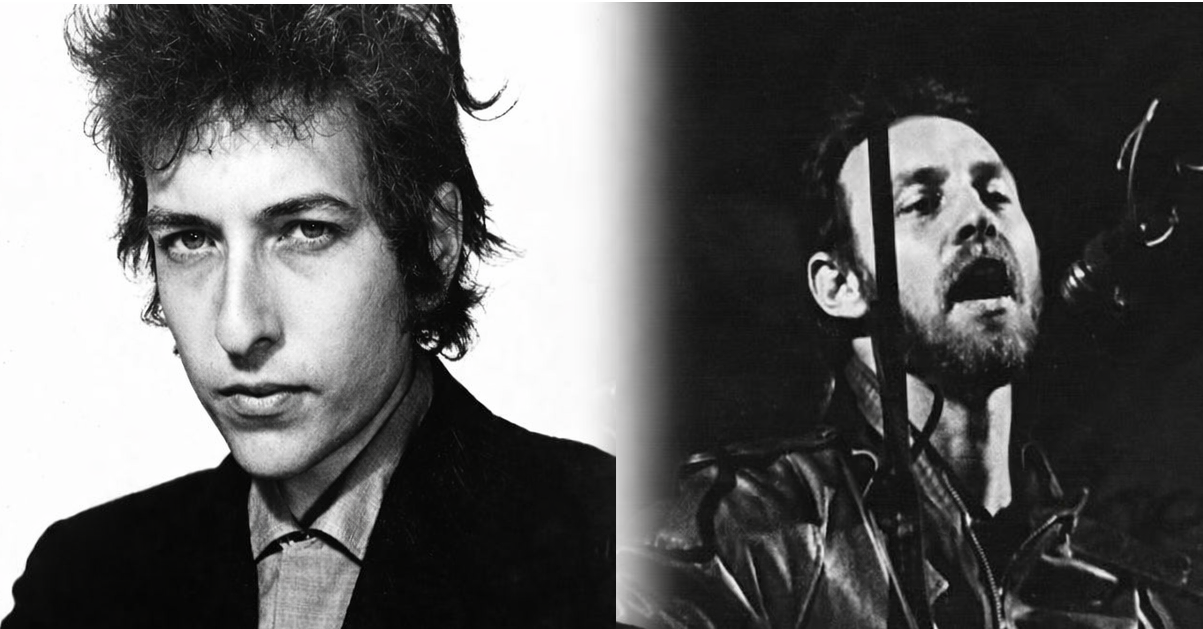
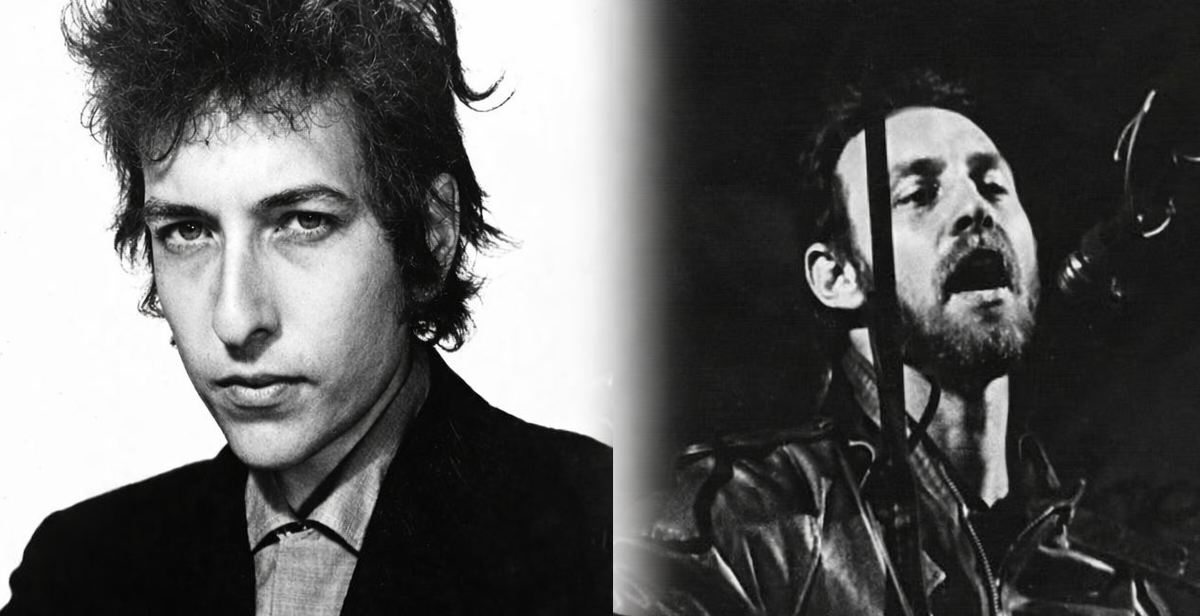
fix

diff --git a/content/posts/2026-07-06-dylan-thompson.md b/content/posts/2026-07-06-dylan-thompson.md
@@ -6,7 +6,7 @@ categories: ["Nonfiction"]
 subtitle: "The Memoirs of Two Folk Rock Giants Recast Their Public Façades"
 image: "/img/dylan-thompson2.png"
 imagealt: "Black-and-white photos of young Bob Dylan in a posed portrait beside Richard Thompson performing live on acoustic guitar."
-imagePosition: "Bottom"
+imagePosition: "Center"
 photocredit: "Bob Dylan in 1965, sourced from Wikimedia (Daniel Kramer,Albert Grossman Management). Richard Thompson in 1982, sourced from Wikimedia (Tony Rees)."
 book:
   title: "Chronicles Volume One"
